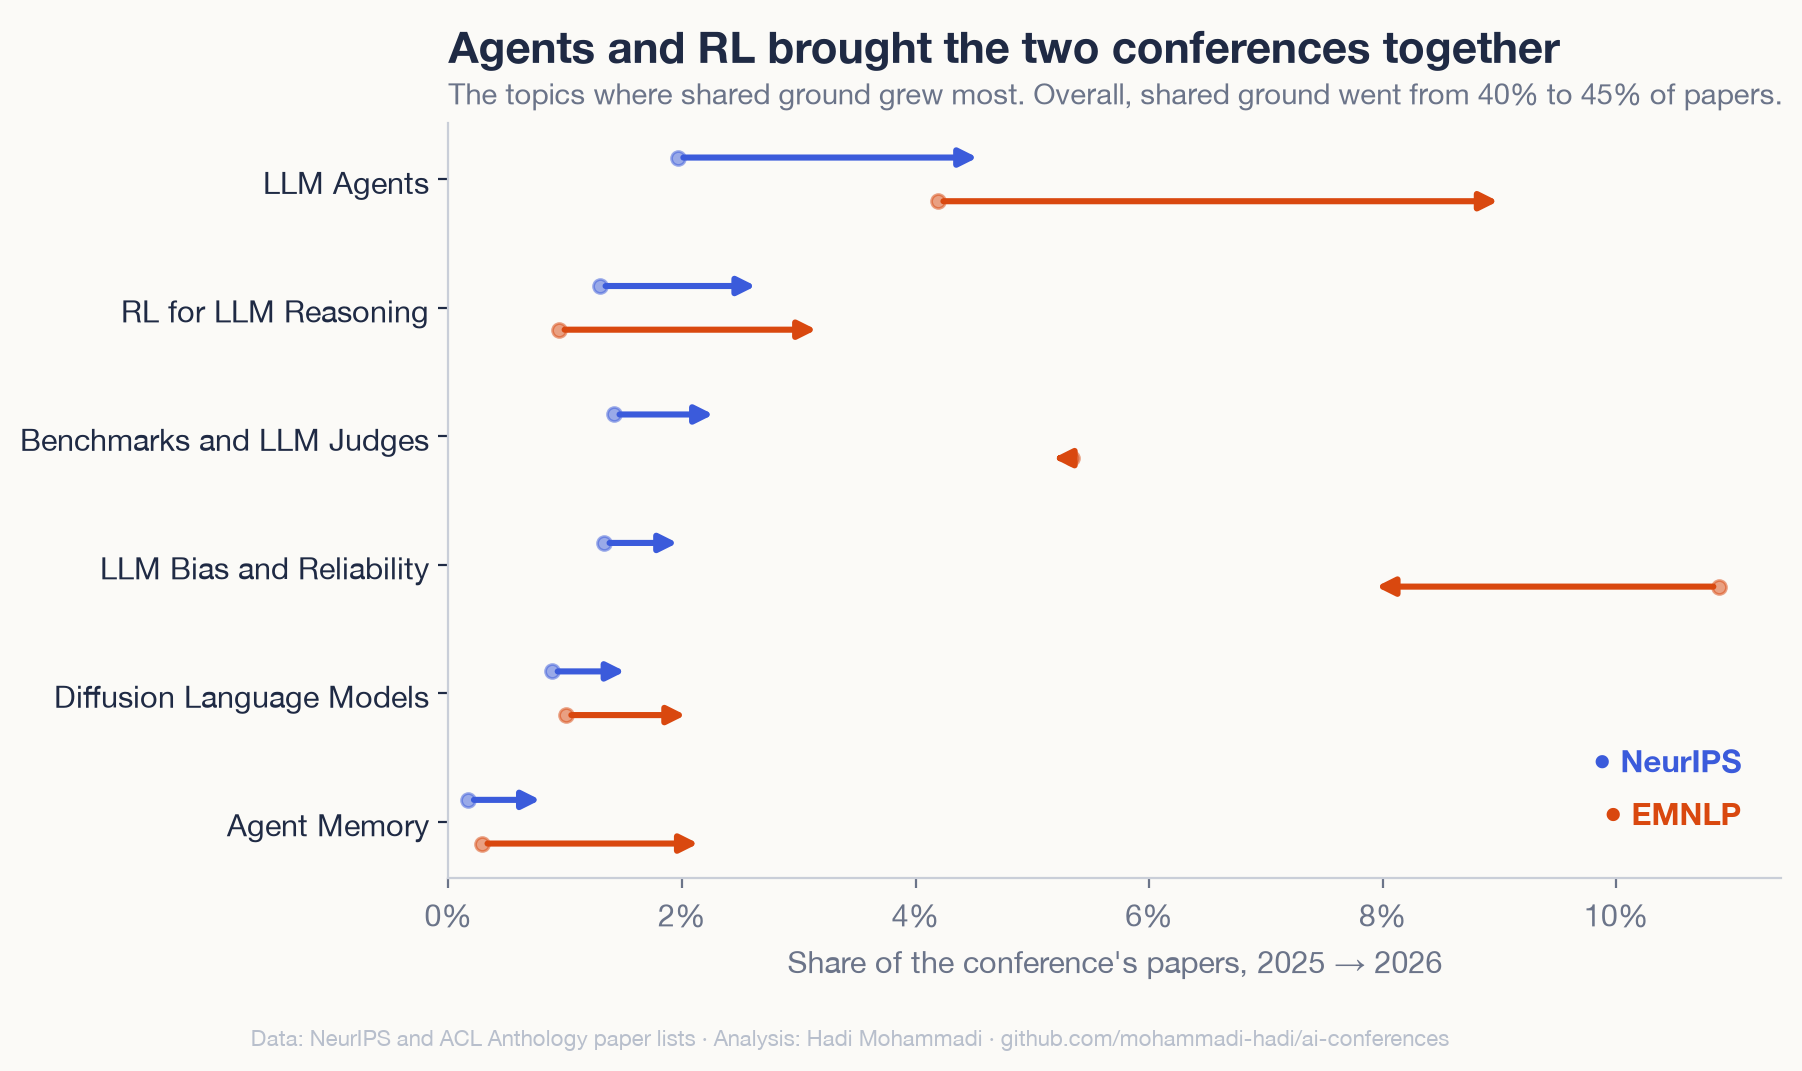
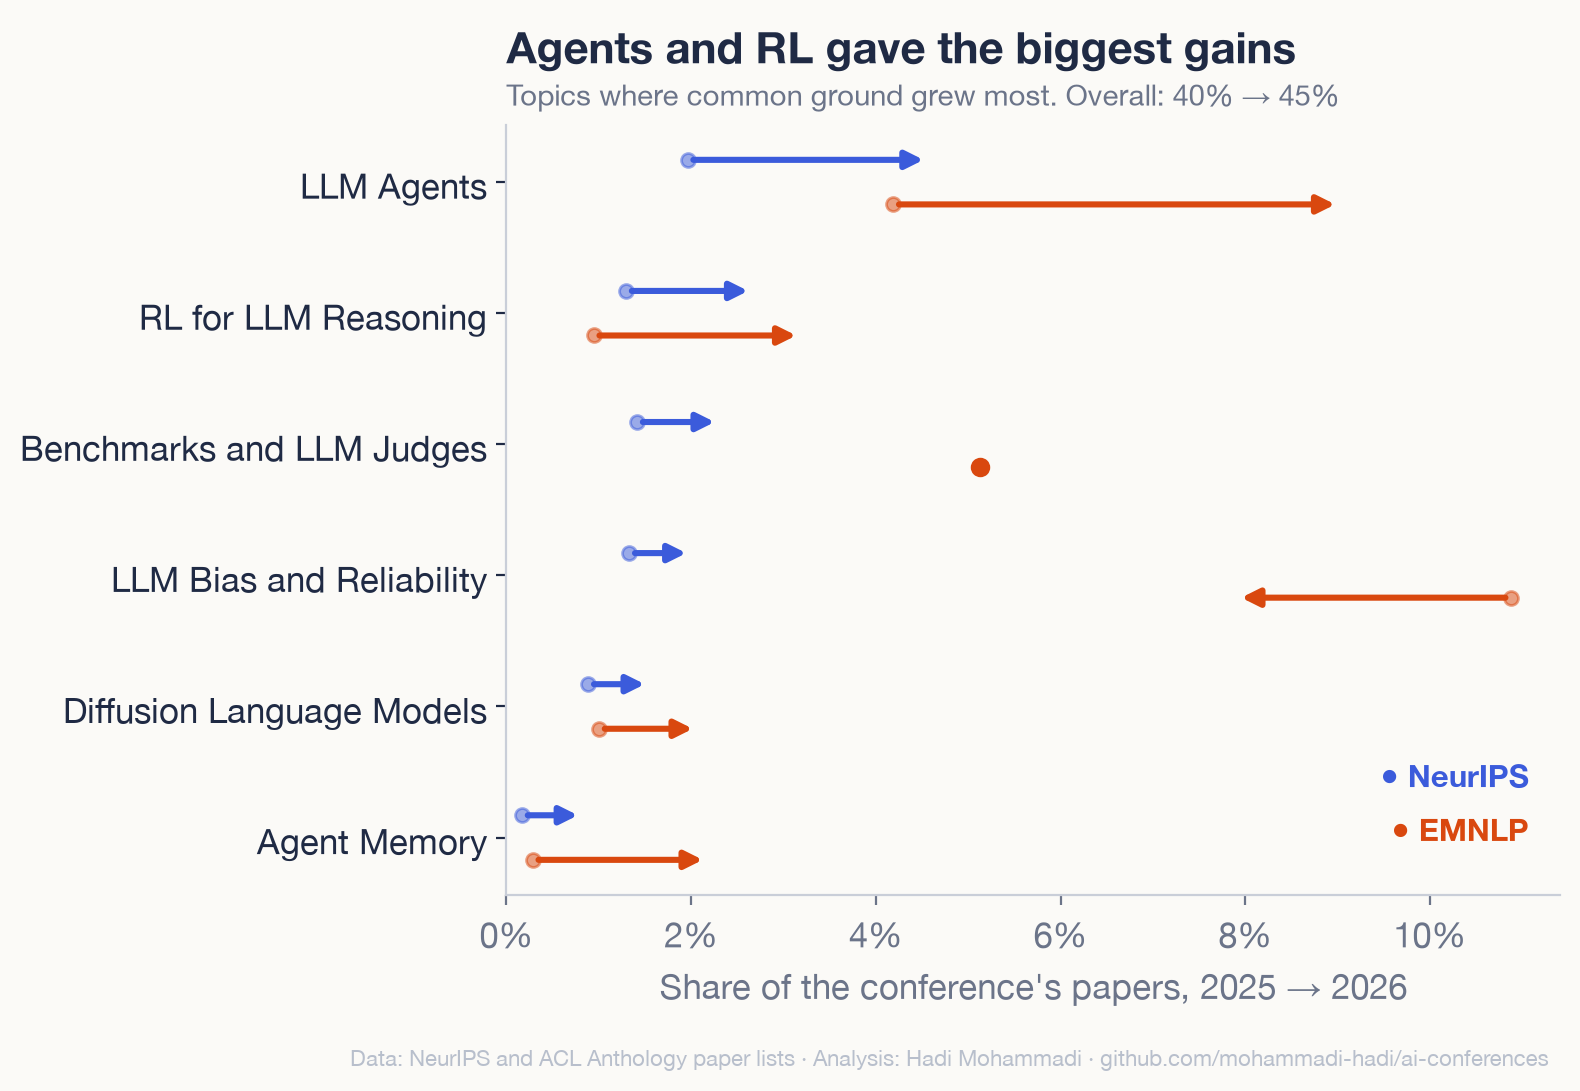
Make the figures readable on a phone and name the measure consistently

diff --git a/src/08_figures.py b/src/08_figures.py
@@ -17,17 +17,17 @@ from config import P, OUT, FIG, ROOT
 
 INK, MUTED, BG, GREY = "#1f2a44", "#6b7489", "#fbfaf7", "#b8bfcc"
 COL = {"NeurIPS": "#3b5bdb", "EMNLP": "#d9480f"}
-plt.rcParams.update({"font.family": ["Helvetica Neue", "Arial", "DejaVu Sans"], "font.size": 11,
+plt.rcParams.update({"font.family": ["Helvetica Neue", "Arial", "DejaVu Sans"], "font.size": 12.5,
                      "axes.spines.top": False, "axes.spines.right": False, "axes.edgecolor": "#c9ced8",
                      "axes.labelcolor": MUTED, "xtick.color": MUTED, "ytick.color": INK,
                      "legend.labelcolor": INK, "figure.facecolor": BG, "axes.facecolor": BG,
                      "savefig.facecolor": BG, "savefig.bbox": "tight", "savefig.dpi": 200})
 SOURCE = "Data: NeurIPS and ACL Anthology paper lists · Analysis: Hadi Mohammadi · github.com/mohammadi-hadi/ai-conferences"
 
-def finish(fig, ax, title, sub, name):
+def finish(fig, ax, title, sub, name, src_y=-0.04):
     fig.text(0.0, 1.08, title, fontsize=16, fontweight="bold", color=INK, transform=ax.transAxes, ha="left")
     fig.text(0.0, 1.025, sub, fontsize=10.5, color=MUTED, transform=ax.transAxes, ha="left")
-    fig.text(0.01, -0.04, SOURCE, fontsize=8, color=GREY, transform=fig.transFigure, ha="left", va="top")
+    fig.text(0.01, src_y, SOURCE, fontsize=8, color=GREY, transform=fig.transFigure, ha="left", va="top")
     fig.savefig(FIG / name)
     plt.close(fig)
     print("wrote", name)
@@ -37,16 +37,17 @@ names = {int(k): v["name"] for k, v in json.load(open(ROOT / "data/labels/topic_
 sh = pd.read_csv(OUT / "topic_shares.csv", index_col=0)
 
 # 1. closeness
-fig, ax = plt.subplots(figsize=(8, 3.6))
-rows = [("NeurIPS papers whose closest paper is at EMNLP", "neurips_closest_at_emnlp", "NeurIPS"),
-        ("EMNLP papers whose closest paper is at NeurIPS", "emnlp_closest_at_neurips", "EMNLP")]
+fig, ax = plt.subplots(figsize=(6.4, 3.4))
+rows = [("NeurIPS papers", "neurips_closest_at_emnlp", "NeurIPS"),
+        ("EMNLP papers", "emnlp_closest_at_neurips", "EMNLP")]
 for i, (lab, key, conf) in enumerate(rows):
     a, b = D["NeurIPS 2025 vs EMNLP 2025"][key], D["NeurIPS 2026 vs EMNLP 2026"][key]
     yy = len(rows) - 1 - i
-    ax.plot([a["mean"] * 100, b["mean"] * 100], [yy, yy], color=GREY, lw=2, zorder=1)
+    ax.annotate("", xy=(b["mean"] * 100, yy - .22), xytext=(a["mean"] * 100, yy - .22),
+                arrowprops=dict(arrowstyle="-|>", color=GREY, lw=1.4, mutation_scale=11))
     for v, yr, alpha in ((a, 2025, .45), (b, 2026, 1)):
         ax.errorbar(v["mean"] * 100, yy, xerr=[[100 * (v["mean"] - v["lo"])], [100 * (v["hi"] - v["mean"])]],
-                    fmt="o", ms=11, color=COL[conf], alpha=alpha, capsize=0, lw=1.5, zorder=2)
+                    fmt="o", ms=11, color=COL[conf], alpha=alpha, capsize=4, lw=1.5, zorder=2)
         ax.annotate(f"{yr}: {v['mean'] * 100:.0f}%", (v["mean"] * 100, yy), xytext=(0, 13), textcoords="offset points",
                     ha="center", fontsize=10, color=INK)
 ax.set_yticks(range(len(rows)))
@@ -55,19 +56,22 @@ ax.set_xlim(15, 35)
 ax.set_xticks(range(15, 36, 5))
 ax.xaxis.set_major_formatter(matplotlib.ticker.FuncFormatter(lambda v, _: f"{v:.0f}%"))
 ax.set_ylim(-.6, 1.7)
-ax.set_xlabel("Equal-size samples of 3,000 papers per conference, 50 draws; lines show the 95% range")
+ax.set_xlabel("Share whose closest paper is at the other conference\n(3,000 papers per side; bars: spread over 50 draws)")
 n25, n26 = D["NeurIPS 2025 vs EMNLP 2025"]["neurips_closest_at_emnlp"]["mean"], D["NeurIPS 2026 vs EMNLP 2026"]["neurips_closest_at_emnlp"]["mean"]
-finish(fig, ax, "NeurIPS and EMNLP papers are closer than a year ago",
-       f"{n25 * 100:.0f}% of NeurIPS papers had their closest paper at EMNLP in 2025, {n26 * 100:.0f}% in 2026",
-       "closeness.png")
+finish(fig, ax, "Closer than a year ago",
+       f"NeurIPS papers with their closest paper at EMNLP: {n25 * 100:.0f}% → {n26 * 100:.0f}%",
+       "closeness.png", src_y=-0.13)
 
 # 2. topics behind the gain
 top = sh.sort_values("shared_change", ascending=False).head(6)
-fig, ax = plt.subplots(figsize=(8.6, 4.9))
+fig, ax = plt.subplots(figsize=(6.8, 5.0))
 for i, (t, r) in enumerate(top.iterrows()):
     y = len(top) - 1 - i
     for conf, dy in (("NeurIPS", .17), ("EMNLP", -.17)):
         a, b = 100 * r[f"{conf} 2025"], 100 * r[f"{conf} 2026"]
+        if abs(b - a) < .3:  # no visible change: a dot, not a stub of an arrow
+            ax.plot(b, y + dy, "o", color=COL[conf], ms=6)
+            continue
         ax.annotate("", xy=(b, y + dy), xytext=(a, y + dy),
                     arrowprops=dict(arrowstyle="-|>", color=COL[conf], lw=2.2, mutation_scale=13))
         ax.plot(a, y + dy, "o", color=COL[conf], ms=5, alpha=.5)
@@ -79,15 +83,15 @@ ax.xaxis.set_major_formatter(matplotlib.ticker.FuncFormatter(lambda v, _: f"{v:.
 for conf, y in (("NeurIPS", .14), ("EMNLP", .07)):
     ax.text(.97, y, f"● {conf}", color=COL[conf], fontsize=11, fontweight="bold", transform=ax.transAxes, ha="right")
 T = json.load(open(OUT / "topics.json"))
-finish(fig, ax, "Agents and RL brought the two conferences together",
-       f"The topics where shared ground grew most. Overall, shared ground went from {T['overlap_2025'] * 100:.0f}% "
-       f"to {T['overlap_2026'] * 100:.0f}% of papers.", "topics_together.png")
+finish(fig, ax, "Agents and RL gave the biggest gains",
+       f"Topics where common ground grew most. Overall: {T['overlap_2025'] * 100:.0f}% → {T['overlap_2026'] * 100:.0f}%",
+       "topics_together.png")
 
 # 3. joint map, two years
 df = pd.read_parquet(P / "papers.parquet")
 xy = pd.read_parquet(P / "umap.parquet")
 df = pd.concat([df, xy], axis=1)
-fig, axes = plt.subplots(1, 2, figsize=(12, 6.2))
+fig, axes = plt.subplots(1, 2, figsize=(12, 5.6))
 for ax, yr in zip(axes, (2025, 2026)):
     d = df[df["year"] == yr]
     for conf in ("NeurIPS", "EMNLP"):
@@ -96,19 +100,19 @@ for ax, yr in zip(axes, (2025, 2026)):
     ax.set_title(f"{yr}: {len(d[d.conf == 'NeurIPS']):,} NeurIPS and {len(d[d.conf == 'EMNLP']):,} EMNLP papers",
                  fontsize=11.5, color=INK, loc="left")
     ax.set_xticks([]); ax.set_yticks([])
+    ax.set_xlim(df["x"].min() - .2, df["x"].max() + .2); ax.set_ylim(df["y"].min() - .2, df["y"].max() + .2)
     for s in ax.spines.values():
         s.set_visible(False)
 topics = pd.read_parquet(P / "topics.parquet")
 df["topic"] = topics["topic"]
-placed = []
-for t in [18, 31, 20, 8, 17, 21, 23, 12, 39]:  # shared topics first, then a few landmarks of each side
+# labels placed by hand at each topic's median position, wrapped so they do not run into each other
+LABELS = {18: "LLM Agents", 31: "RL for LLM\nReasoning", 17: "Retrieval-Augmented\nGeneration",
+          8: "Multilingual NLP\nand Translation", 23: "Optimisation\nTheory", 21: "Diffusion and\nFlow Models"}
+for t, lab in LABELS.items():
     c = df[df["topic"] == t][["x", "y"]].median()
-    if any(abs(c["x"] - a) < 2.2 and abs(c["y"] - b) < .7 for a, b in placed):
-        continue
-    placed.append((c["x"], c["y"]))
     for ax in axes:
-        ax.text(c["x"], c["y"], names[t], fontsize=9.5, fontweight="bold", color=INK, ha="center",
-                path_effects=[pe.withStroke(linewidth=3, foreground="white")])
+        ax.text(c["x"], c["y"], lab, fontsize=10, fontweight="bold", color=INK, ha="center", va="center",
+                multialignment="center", path_effects=[pe.withStroke(linewidth=3, foreground="white")])
 axes[0].text(0, 1.13, "The same map, a year apart", fontsize=16, fontweight="bold", color=INK, transform=axes[0].transAxes)
 axes[0].text(0, 1.075, "Each dot is a paper; papers on similar topics sit close together. "
              "Blue: NeurIPS. Orange: EMNLP.", fontsize=10.5, color=MUTED, transform=axes[0].transAxes)
@@ -121,7 +125,7 @@ print("wrote map_years.png")
 s = sh[(sh["NeurIPS 2026"] >= .01) | (sh["EMNLP 2026"] >= .01)].copy()
 s["lean"] = np.log2((s["EMNLP 2026"] + 1e-3) / (s["NeurIPS 2026"] + 1e-3))
 pick = pd.concat([s.nsmallest(5, "lean"), s.nlargest(5, "lean")[::-1]])
-fig, ax = plt.subplots(figsize=(8.6, 5.2))
+fig, ax = plt.subplots(figsize=(6.8, 5.4))
 ys = np.arange(len(pick))[::-1]
 for y, (t, r) in zip(ys, pick.iterrows()):
     ax.barh(y + .18, 100 * r["NeurIPS 2026"], height=.34, color=COL["NeurIPS"])
